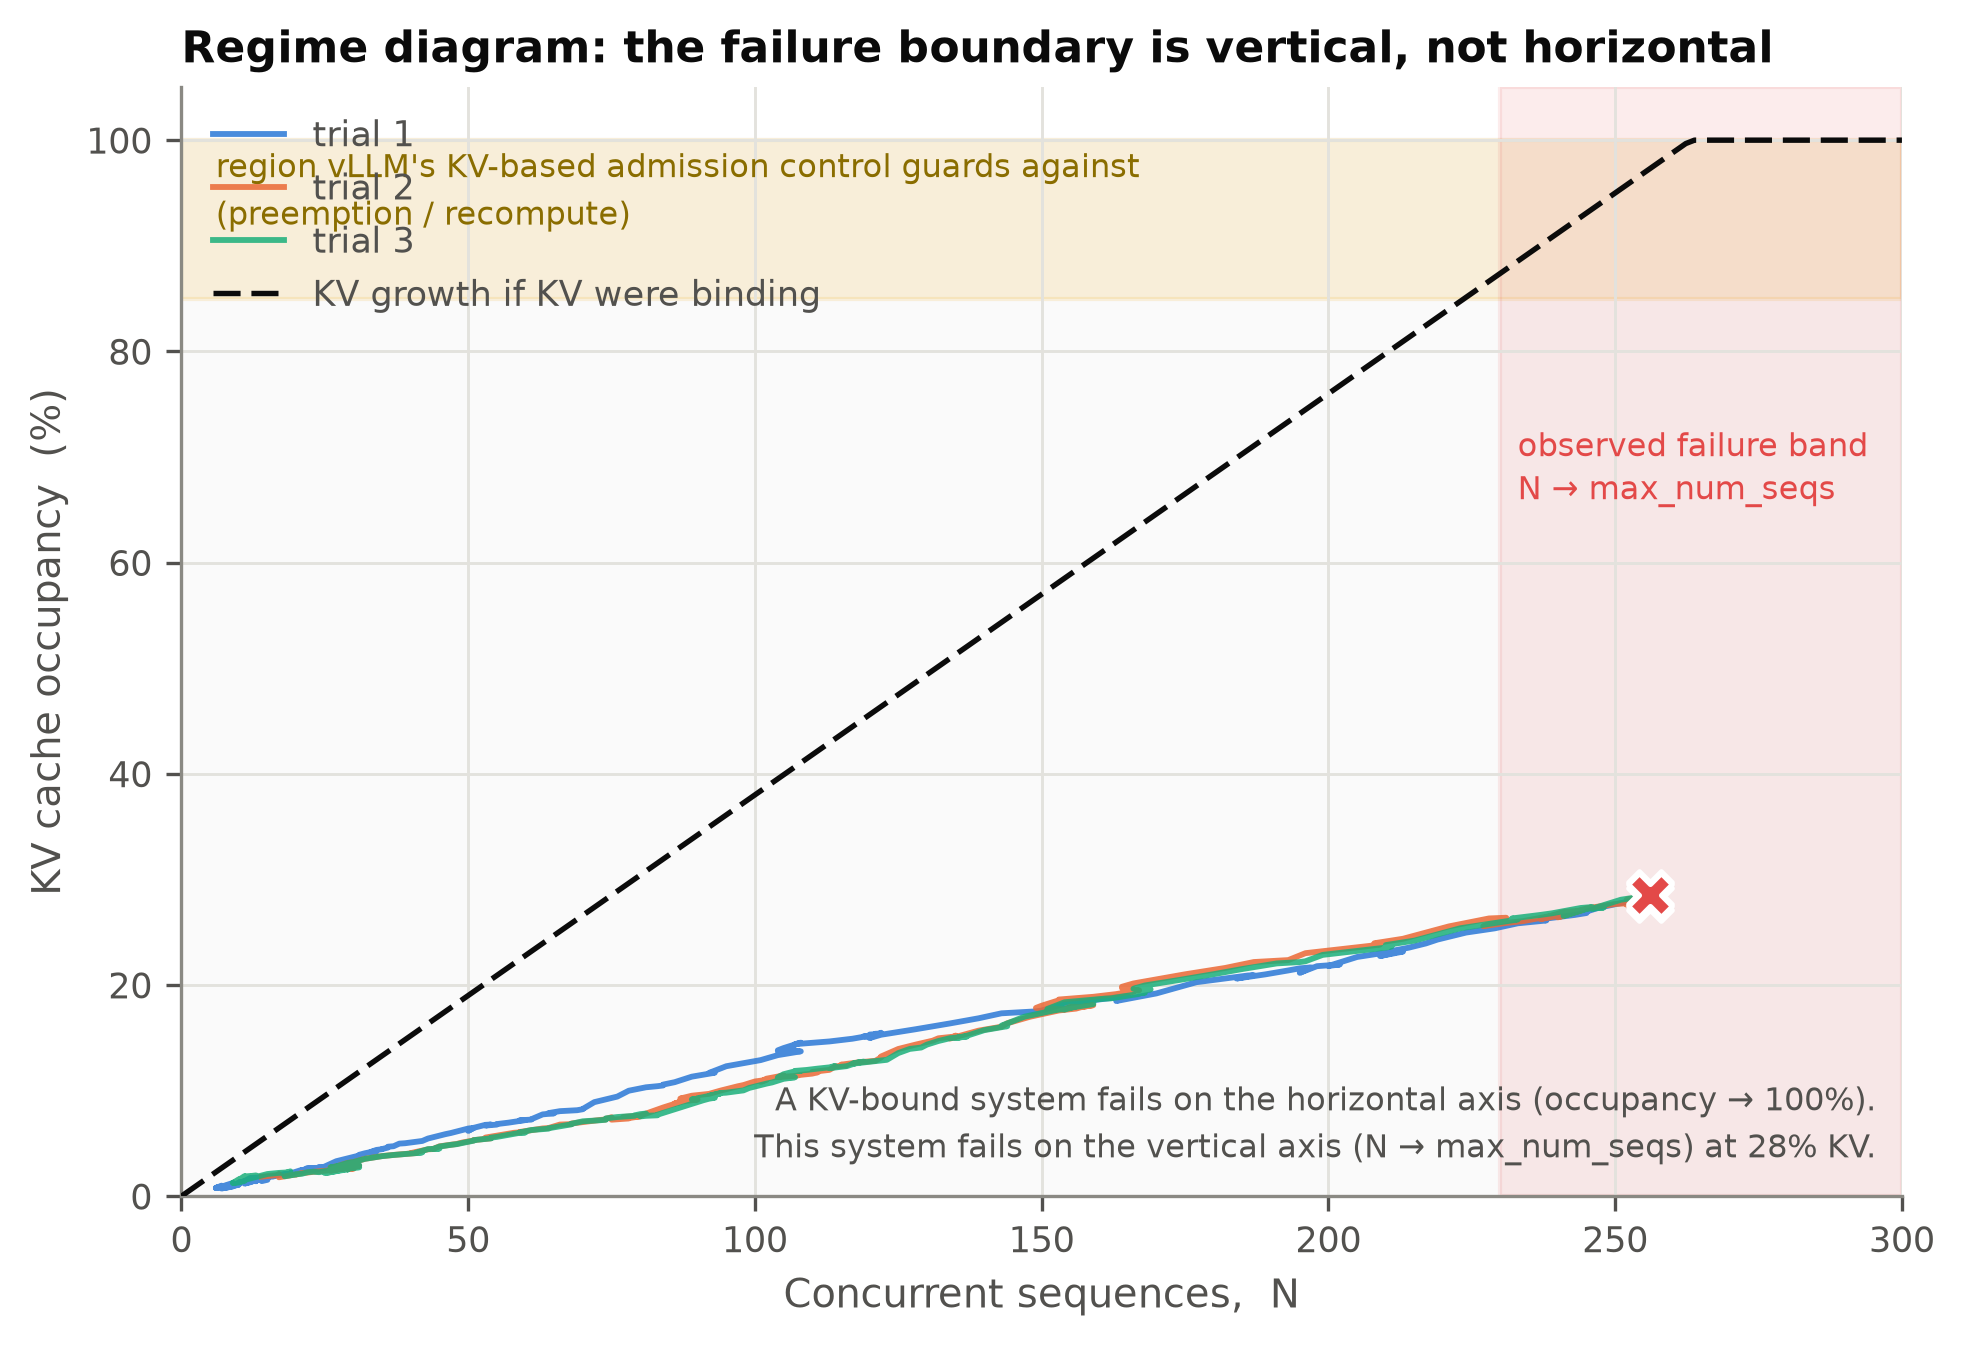
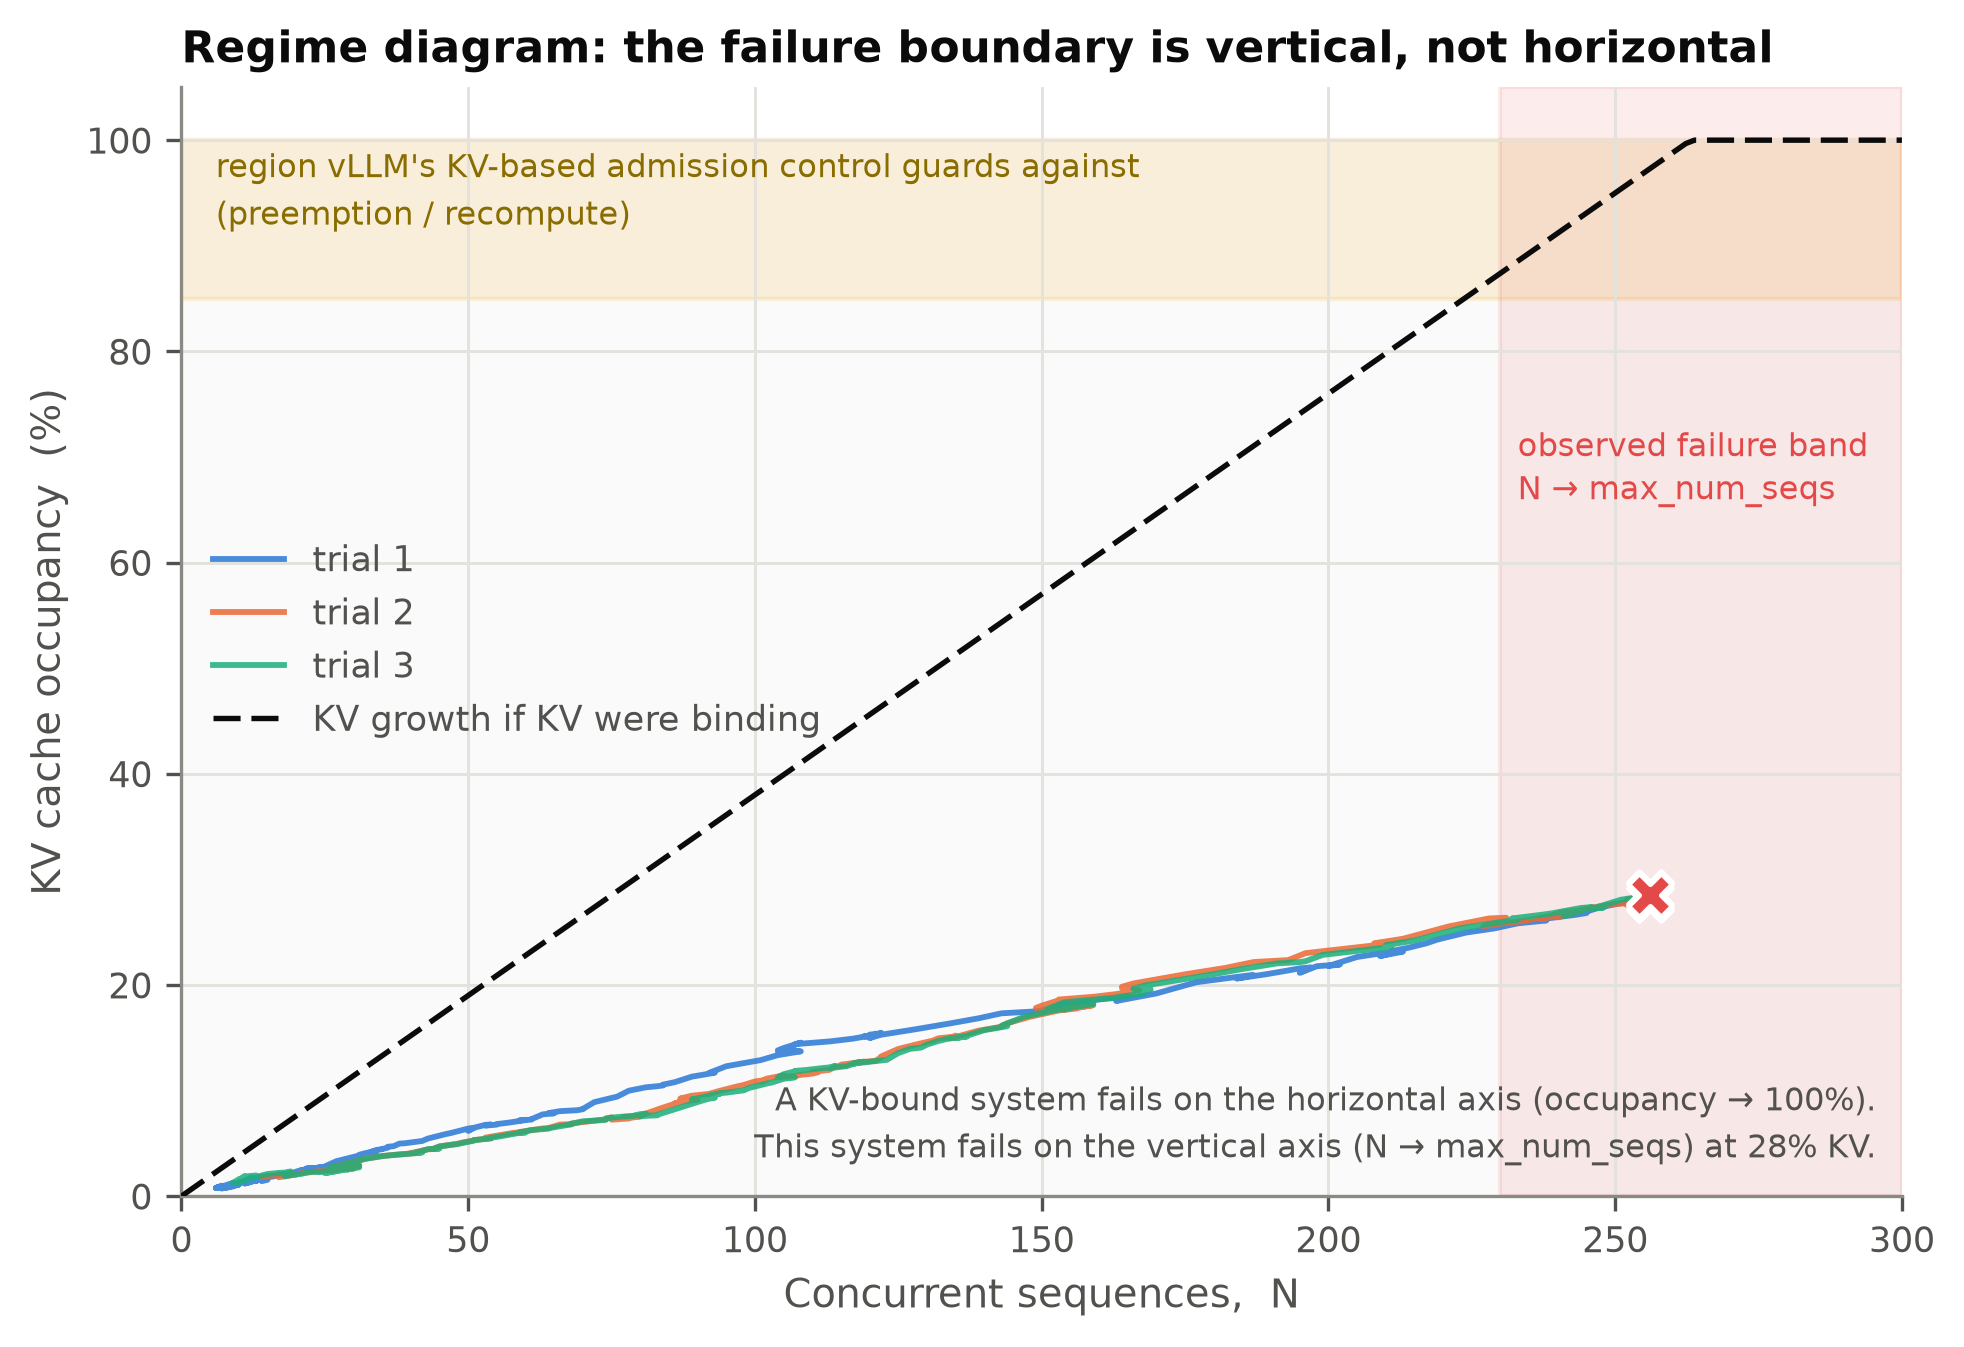
Add a conclusion and work the orphaned figures into the text
Two gaps that only became visible once section 2 was in place: the draft argued
its case and then stopped, and ten of the eleven figures were never referenced.

Section 13 is a new conclusion, 505 words. It opens on the fact that the paper
began as a service-rate fit and became something else because the engine died
before it saturated, then states the two consequences that outlast the
constants. First, a reservation is only as wide as the allocator it names —
Orca's admission-time guarantee is sound and our engine dies with it intact, six
megabytes short of a scorer allocation beside six gigabytes of reserved KV it
cannot use. Second, a capacity limit that is also a memory parameter can invert:
Orca kept max_bs and n_slots as two knobs, and collapsing them gives the
operator a control whose sign changes partway along its range. It closes on the
question worth carrying rather than on the constants: what does a serving
system's capacity signal not cover, and has anyone checked whether the uncovered
part is the part that binds.

All eleven figures are now referenced where they carry an argument rather than
listed. Figure 1 in section 3; Figures 2 and 8 in section 5; Figures 9 and 3 in
7.1, where the regime diagram makes the occupancy point geometrically — a
KV-bound system fails along the horizontal axis and this one fails along the
vertical; Figure 5 in 7.2, which is the accounting gap in one image; Figure 4 in
[…]

diff --git a/tools/make_paper_figures.py b/tools/make_paper_figures.py
@@ -280,7 +280,9 @@ def fig_regime_diagram(expA, out: Path):
     ax.set_xlabel("Concurrent sequences,  N")
     ax.set_ylabel("KV cache occupancy  (%)")
     ax.set_title("Regime diagram: the failure boundary is vertical, not horizontal", loc="left")
-    ax.legend(loc="upper left")
+    # Not "upper left": that corner holds the guarded-region callout, and the legend lands on top
+    # of it. Centre-left sits above the dashed line at those x-values, which is empty.
+    ax.legend(loc="center left")
     ax.text(0.985, 0.035,
             "A KV-bound system fails on the horizontal axis (occupancy → 100%).\n"
             "This system fails on the vertical axis (N → max_num_seqs) at 28% KV.",

diff --git a/docs/paper_draft.md b/docs/paper_draft.md
@@ -25,11 +25,11 @@ Two conventions, because they are the difference between a defensible paper and 
 - **Numbers are not restated from memory.** Where a figure appears here it exists in a generated
   file; where a figure does *not* exist, this draft says so rather than estimating it.
 
-**Citation status** (applies to §2 and §14). No reference is written from memory, and every
+**Citation status** (applies to §2 and §15). No reference is written from memory, and every
 quotation was transcribed from the paper itself rather than from a search result or a fetch
 summary — a summariser misreported one of these papers' central numbers during drafting, which is
 why the rule exists. Eight of the ten references were obtained in full and the cited passages
-read directly (**[R]** in §14); the two paywalled LPS papers (**[M]**) are cited only for claims
+read directly (**[R]** in §15); the two paywalled LPS papers (**[M]**) are cited only for claims
 an [R] source corroborates. Five gaps have no verified citation — the batch-size reversal,
 FastServe's metadata, statistics references, thermal non-stationarity, and the
 allocator-fragmentation account in §7.2 — each marked **[CITE]** at the point it is needed and
@@ -38,7 +38,7 @@ tracked in `docs/related_work.md` §7. **The draft is not submittable while any 
 **Format.** Markdown, because this machine has no LaTeX or pandoc toolchain (`pdflatex`,
 `xelatex`, `latexmk`, `tectonic`, `pandoc` all absent) and the rest of `docs/` is Markdown.
 Converting to a venue template is mechanical once a venue is chosen; no venue or format was
-specified, so this draft is venue-neutral. See §13 for the open items that block submission.
+specified, so this draft is venue-neutral. See §14 for the open items that block submission.
 
 ---
 
@@ -322,7 +322,9 @@ throttling as non-stationarity (§10.4); `related_work.md` §7 items H and I.]**
 
 ## 3. Experimental setup
 
-Single-node, single-GPU. Full capture in `snapshots/paper-v2/ENVIRONMENT.json`.
+Single-node, single-GPU. **Figure 1** shows the harness: an admission layer in front of an
+unmodified vLLM engine, which is what lets §9 vary admission policy without touching the engine
+whose failure §7 characterises. Full capture in `snapshots/paper-v2/ENVIRONMENT.json`.
 
 | | |
 |---|---|
@@ -395,7 +397,9 @@ From `docs/queueing_model.md` §4:
 
 *Italicised μ_max and N\* are extrapolations, not measurements (§6.1).* Only `phase1_mixed`
 both spans the knee generously and has a flat plateau (slope −0.61 tok/s/seq, indistinguishable
-from zero at this noise level; MAPE 12.7%). It is the reference fit.
+from zero at this noise level; MAPE 12.7%). It is the reference fit, and **Figure 8** shows it
+against its measurements; **Figure 2** shows the throughput curves for all workloads, where the
+workload-specificity of the knee is visible directly.
 
 ---
 
@@ -467,6 +471,15 @@ lived** — which is precisely what an admission controller keyed on occupancy w
 argument requires no model and no theory of the mechanism: two runs of one configuration, one
 dead at low occupancy and one alive at high.
 
+**Figure 9** puts the same point geometrically, for the Experiment A campaign. A KV-bound system
+fails along the horizontal axis, occupancy rising to 100%; this one fails along the vertical
+axis, N reaching `max_num_seqs`, with occupancy at 28.4% ± 0.3%. The dashed line traces where
+occupancy would have to go for KV to be the binding resource, and the trials never approach it.
+The figure also marks the band that vLLM's KV-based admission control does guard — occupancy
+approaching exhaustion, where preemption and recompute engage — and the failures fall well
+outside it. **Figure 3** shows the same three trials against concurrency, dying with 71.6% of
+the cache unused.
+
 A second, independent line of evidence comes from an experiment that varied speculative depth
 (§7.4). Its k = 7 arm died in 3/3 trials at N = 186, 187 and 256 against a sequence cap of 256,
 with occupancy at the failing step of **43.6%, 43.6% and 63.3%** against an estimated KV ceiling
@@ -500,6 +513,14 @@ that failed, and our test statistic is MiB per sequence computed from that — b
 any prediction of the *concurrency* at which death occurs, which depends on total headroom. This
 is a source reading, not an experiment, and is reported as such.
 
+**Figure 5** is the accounting gap in one picture. On the left, what vLLM reserves at startup for
+the 1.5B configuration: 2.89 GiB of weights, 2.02 GiB of activation headroom, 8.15 GiB of KV
+cache. On the right, what the device actually holds at the moment of failure: the weights
+unchanged, 2.31 GiB of KV in use, **5.84 GiB of KV reserved and never touched**, and 1.86 GiB of
+activations and scorer. Into that state the scorer requests 742 MiB with 736 MiB free, and the
+engine dies — six megabytes short, beside six gigabytes of reserved cache it is not permitted to
+use. The reservation discipline of §2.1 is working exactly as designed throughout.
+
 This allocation also explains §7.1's stochasticity, which an occupancy account cannot. The tensor
 is requested once per engine step as a single contiguous block; whether a request of that size
 succeeds depends on the state of the caching allocator at that instant — how fragmented the
@@ -525,6 +546,8 @@ of Experiments A and B (`docs/experiment_b.md` §5):
 
 The 1.5B sweep died at lower concurrency and asked for correspondingly *less* memory, which is
 what makes this a test rather than a fit: the failing allocation tracks N, not model size.
+**Figure 4** shows the underlying trajectory — device memory climbing with concurrency until the
+allocator has no room left for the next request.
 
 ### 7.4 The law on the k axis (Experiment F)
 
@@ -583,7 +606,9 @@ sweep: per-token KV cost rises 1.29× (36 layers against 28) and the pool it lan
 they predict **2.21×**, inside the measured interval; vLLM's own reported maximum-concurrency
 ratio (2.21×) agrees independently.
 
-The scorer allocation, meanwhile, does not move with model size at all. **This is the bottleneck
+The scorer allocation, meanwhile, does not move with model size at all. **Figure 10** places the
+two panels side by side at the same scale, which is the whole result: KV cost per sequence moves
+with model size, and the allocation that kills the engine does not. **This is the bottleneck
 moving**: the wall sits at the same N for both models, but the 3B engine arrives there having
 spent twice as much of a smaller pool on KV. Extrapolating, the 3B arm would exhaust its pool at
 N ≈ 400, beyond the cap of 256 — which is why the scorer wall still arrives first. The margin is
@@ -645,6 +670,11 @@ correction and **9 survive Holm**. The surviving contrasts include:
 | `edf` vs `fcfs` | SLO attainment | +0.412 | +3.69 | 0.0000 |
 | `srpt` vs `fcfs` | SLO attainment | +0.397 | +3.78 | 0.0000 |
 
+**Figure 6** shows aggregate SLO attainment by policy and arrival rate across the Phase-2 grid,
+and **Figure 7** breaks the same attainment down by workload class, where the differentiation
+these policies are designed for is visible: `nocap` holds every class above 0.9 in the n = 10
+cell while `fcfs` collapses on all four.
+
 The throughput row is the one that matters for framing. Admission policy is commonly described
 as trading latency or fairness *at fixed capacity*. Here an uncapped queue gains **both** +0.888
 SLO attainment **and** +178 tok/s (287 → 464) over FCFS, with both effects surviving the
@@ -679,7 +709,7 @@ not be reported as one**. Consequently "the allocation is model-size independent
 demonstrated on two models that agree on precisely the parameter which would have made it
 size-*dependent*. Measuring V requires a model from a different family, which changes layer
 count, KV cost per token and activation profile simultaneously — so a disagreement could not be
-attributed to V. §13 gives the concrete blocked experiment.
+attributed to V. §14 gives the concrete blocked experiment.
 
 **10.4 Thermal throttling.** 85–89 °C with the throttle flag set through nearly the whole
 campaign. Absolute rates are depressed; only paired and ratio comparisons are safe. Repeats
@@ -754,7 +784,53 @@ committed results, and degrades cleanly to its pre-F content if `results/expF` i
 
 ---
 
-## 13. Open items before submission
+## 13. Conclusion
+
+We set out to fit a service-rate model to a continuously-batched LLM server and found that the
+model could not be identified, because the engine died before it saturated. That failure turned
+out to be the result. On the system we measured, the engine never once ran out of the resource
+its capacity signal reports.
+
+The evidence for that is a pair of runs rather than an argument. Under one configuration, at one
+seed, minutes apart, the engine died with the KV pool 57.4% full and then survived a full load
+ramp at 80.7%; across ten trials every survivor peaked higher than every death, with no overlap
+between the groups. Nothing in an occupancy threshold can separate those runs, which is what an
+admission controller keyed on occupancy is asked to do. What binds instead is an allocation in
+the speculative-decoding scorer, `N·(k+1)·V·4` bytes, sitting outside the paged allocator and
+absent from every gauge the engine exposes; it predicts the failing allocation to within 0.1% at
+two speculative depths and to within 0.5% at a concurrency 60% beyond anything else we measured,
+and removing it removes the failure at a *higher* occupancy than the one that killed the
+speculative arm.
+
+Two consequences seem to us more durable than the constants.
+
+**The reservation is only as wide as the allocator it names.** Orca's admission-time guarantee is
+sound, and our engine dies with it fully intact — six megabytes short of a scorer allocation
+while six gigabytes of reserved KV sit untouched (Figure 5). A memory-safety argument that ranges
+over one allocator is not a memory-safety argument for the system, and continuous batching has
+accumulated allocators faster than it has accumulated accounting for them.
+
+**A capacity limit that is also a memory parameter can invert.** `max_num_seqs` bounds
+concurrency and sizes the activation reserve deducted from the KV pool, so raising it from 256 to
+1024 does not raise the sustainable concurrency but roughly halves it, and moves the binding
+resource from the scorer to the pool. Orca kept these as two knobs; collapsing them into one
+gives the operator a control whose sign changes partway along its range. That is a property of an
+implementation, not of a queueing discipline, and it is invisible to the theory that would
+otherwise describe the system.
+
+None of this says speculative decoding is a poor design, or that we have found a defect. The
+allocation does exactly what it was written to do. The finding is that its size is unbounded in a
+dimension nothing admits against — and that the discipline which makes serving systems safe, the
+reserve-before-admit rule, is stated over an allocator rather than over a device.
+
+We measured one GPU, one engine version and one model family, and §10 is explicit that the
+constants should not be carried elsewhere. The question we think worth carrying is smaller and
+harder to dismiss: for any serving system, what does its capacity signal *not* cover, and has
+anyone checked whether the uncovered part is the part that binds?
+
+---
+
+## 14. Open items before submission
 
 **Blocking:**
 
@@ -793,7 +869,7 @@ either is quoted.
 
 ---
 
-## 14. References
+## 15. References
 
 *Read status is recorded per entry, because the two are not the same thing and the distinction
 governs what each may be cited for.* **[R]** = full text obtained and the passages cited here

diff --git a/docs/related_work.md b/docs/related_work.md
@@ -135,7 +135,7 @@ Worth a short paragraph in §2, because it pre-empts the three likeliest misread
 *Checked August 2026.*
 
 > **Update — the reading pass has been done.** Eight of the ten were obtained in full and the
-> cited passages read directly; §2 of `docs/paper_draft.md` now quotes them and §14 there records
+> cited passages read directly; §2 of `docs/paper_draft.md` now quotes them and §15 there records
 > read status per entry (**[R]** read / **[M]** metadata only). Only the two paywalled LPS papers
 > (Zhang & Zwart 2008; Zhang/Dai/Zwart 2009) were not obtained, and each is cited solely for a
 > claim the open-access 2011 paper corroborates. Full author lists were recovered from the papers
@@ -262,7 +262,7 @@ Worth a short paragraph in §2, because it pre-empts the three likeliest misread
 
 ## 8. A note on scope creep
 
-The draft's §13 lists three experiments that would raise the paper's ceiling. None of them are
+The draft's §14 lists three experiments that would raise the paper's ceiling. None of them are
 blocked by this file, and this file should not grow into a survey. §2 of a paper of this size
 wants roughly 1200 words and 12–18 references. The verified list above is 9; items F–J would
 bring it to a reasonable count without further searching.
